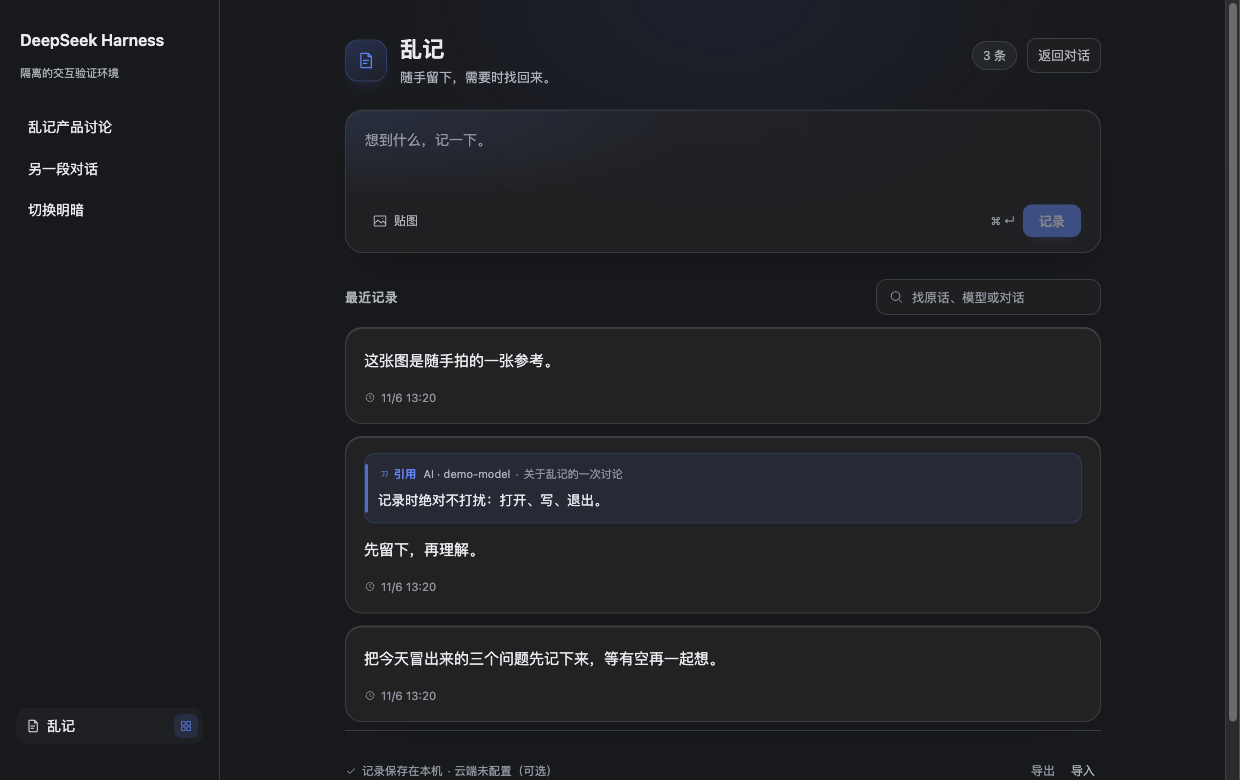
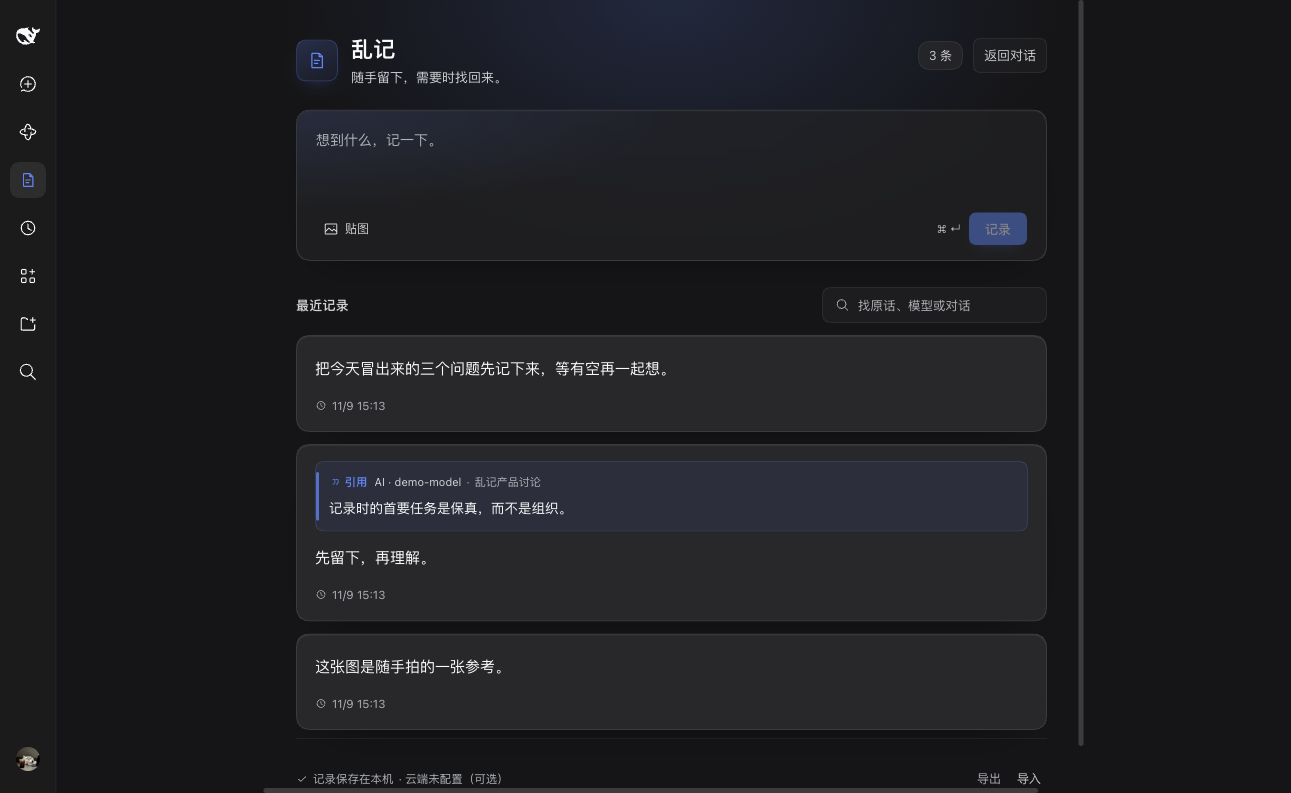
docs: README 界面一览（真实 DSH Web 截图，明暗 8 张）+ 市场截图 screenshots.json

diff --git a/README.md b/README.md
@@ -21,6 +21,24 @@
 - **会回来**：原句在对话里以淡底 + 下划线标记，刷新/回到对话仍能恢复；记录可「回到对话」。
 - **可选云端**：配置自己的「乱记兼容」数据服务后，可手动从云端拉取 / 推送到云端（见 [docs/cloud-sync.md](docs/cloud-sync.md)）。
 
+## 界面一览
+
+划选对话里的原话，浮动条上直接「记录 / 引用并记录 / 引用文本」：
+
+![划选记录](docs/screenshots/selection-light.png)
+
+引用便签：原文在上、想法在下，来源（模型 · 会话）跟着走：
+
+![引用便签](docs/screenshots/quote-light.png)
+
+点侧栏「乱记」行，就近弹出速记便签，先记住、不必先起标题：
+
+![快捷便签](docs/screenshots/capture-light.png)
+
+管理面板：搜索、编辑、导入导出，明暗两套主题：
+
+![管理面板（暗色）](docs/screenshots/panel-dark.png)
+
 ## 入口与操作
 
 | 入口 | 操作 |
